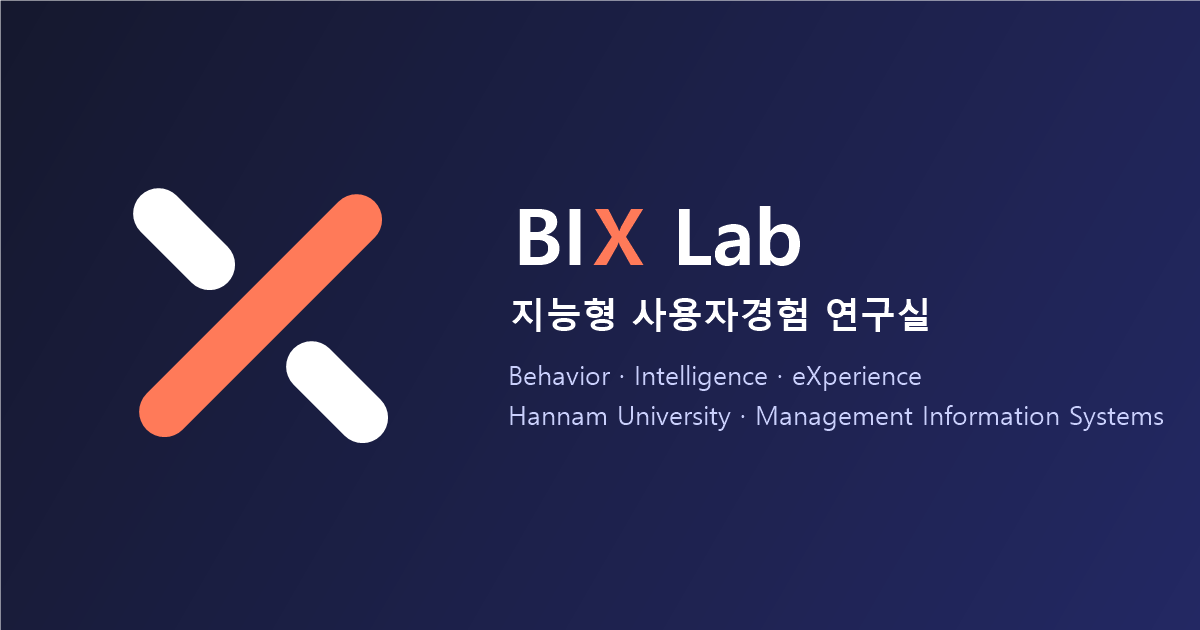
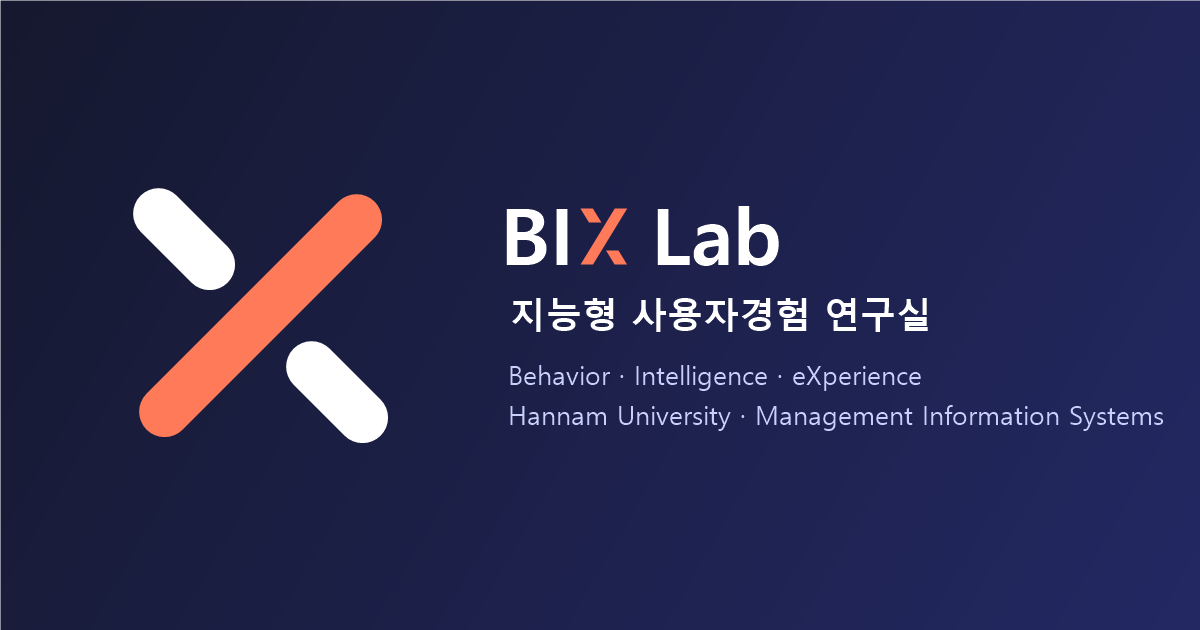
워드마크 X 디테일 적용

Changed region(s): [[0.4008, 0.3317, 0.6783, 0.4222]]

diff --git a/members.html b/members.html
@@ -14,8 +14,8 @@
 <meta property="og:image:width" content="1200">
 <meta property="og:image:height" content="630">
 <meta name="twitter:card" content="summary_large_image">
-<link rel="icon" type="image/svg+xml" href="assets/logo.svg?v=20261120j">
-<link rel="stylesheet" href="assets/style.css?v=20261120j">
+<link rel="icon" type="image/svg+xml" href="assets/logo.svg?v=20261123">
+<link rel="stylesheet" href="assets/style.css?v=20261123">
 </head>
 <body>
 <header id="site-header"></header>
@@ -34,7 +34,7 @@
       <div class="section-head"><div class="eyebrow">Principal Investigator</div></div>
       <div class="profile">
         <!-- 사진: assets/professor.jpg 파일이 있으면 사진이, 없으면 이니셜(BGS)이 보입니다 -->
-        <div class="avatar"><img src="assets/professor.jpg?v=20261120j" alt="Prof. Bong-Goon Seo" onerror="this.parentNode.textContent='BGS'"></div>
+        <div class="avatar"><img src="assets/professor.jpg?v=20261123" alt="Prof. Bong-Goon Seo" onerror="this.parentNode.textContent='BGS'"></div>
         <div>
           <h2>Bong-Goon Seo <span style="font-weight:500;color:var(--muted);font-size:22px">서봉군</span></h2>
           <p class="role">Assistant Professor, Department of Management Information Systems, Hannam University<br>
@@ -117,6 +117,6 @@
 </main>
 
 <footer id="site-footer"></footer>
-<script src="assets/site.js?v=20261120j"></script>
+<script src="assets/site.js?v=20261123"></script>
 </body>
 </html>

diff --git a/index.html b/index.html
@@ -15,8 +15,8 @@
 <meta property="og:image:height" content="630">
 <meta name="twitter:card" content="summary_large_image">
 <meta name="description" content="BIX Lab (지능형 사용자경험 연구실), Department of Management Information Systems, Hannam University — Understanding Behavior. Applying Intelligence. Designing Experience.">
-<link rel="icon" type="image/svg+xml" href="assets/logo.svg?v=20261120j">
-<link rel="stylesheet" href="assets/style.css?v=20261120j">
+<link rel="icon" type="image/svg+xml" href="assets/logo.svg?v=20261123">
+<link rel="stylesheet" href="assets/style.css?v=20261123">
 </head>
 <body>
 <header id="site-header"></header>
@@ -151,8 +151,8 @@
 </main>
 
 <footer id="site-footer"></footer>
-<script src="assets/data.js?v=20261120j"></script>
-<script src="assets/site.js?v=20261120j"></script>
+<script src="assets/data.js?v=20261123"></script>
+<script src="assets/site.js?v=20261123"></script>
 <script>
   renderNews("news", 5);
   renderPubs("selected", PUBS_INTL.filter(p => p.sel));

diff --git a/publications.html b/publications.html
@@ -14,8 +14,8 @@
 <meta property="og:image:width" content="1200">
 <meta property="og:image:height" content="630">
 <meta name="twitter:card" content="summary_large_image">
-<link rel="icon" type="image/svg+xml" href="assets/logo.svg?v=20261120j">
-<link rel="stylesheet" href="assets/style.css?v=20261120j">
+<link rel="icon" type="image/svg+xml" href="assets/logo.svg?v=20261123">
+<link rel="stylesheet" href="assets/style.css?v=20261123">
 </head>
 <body>
 <header id="site-header"></header>
@@ -64,8 +64,8 @@
 </main>
 
 <footer id="site-footer"></footer>
-<script src="assets/data.js?v=20261120j"></script>
-<script src="assets/site.js?v=20261120j"></script>
+<script src="assets/data.js?v=20261123"></script>
+<script src="assets/site.js?v=20261123"></script>
 <script>
   // 학술지 번호는 국내 [1]부터 시작해 국제 논문까지 이어서 매김
   renderPubs("list-intl", PUBS_INTL, PUBS_KR.length);

diff --git a/daily.html b/daily.html
@@ -16,8 +16,8 @@
 <meta name="twitter:card" content="summary_large_image">
 <!-- 잠시 닫아 둠: 이 주소로 들어오면 홈으로 이동. 다시 열려면 아래 한 줄을 지우면 됨 -->
 <meta http-equiv="refresh" content="0; url=index.html">
-<link rel="icon" type="image/svg+xml" href="assets/logo.svg?v=20261120j">
-<link rel="stylesheet" href="assets/style.css?v=20261120j">
+<link rel="icon" type="image/svg+xml" href="assets/logo.svg?v=20261123">
+<link rel="stylesheet" href="assets/style.css?v=20261123">
 </head>
 <body>
 <header id="site-header"></header>
@@ -53,7 +53,7 @@
 </main>
 
 <footer id="site-footer"></footer>
-<script src="assets/site.js?v=20261120j"></script>
-<script src="assets/daily.js?v=20261120j"></script>
+<script src="assets/site.js?v=20261123"></script>
+<script src="assets/daily.js?v=20261123"></script>
 </body>
 </html>

diff --git a/assets/site.js b/assets/site.js
@@ -16,7 +16,13 @@
     '<svg class="logo" viewBox="0 0 100 100" aria-hidden="true"><g stroke-linecap="round" stroke-width="17" fill="none">' +
     '<path d="M16 16 L33 33 M67 67 L84 84" stroke="currentColor"/>' +
     '<path d="M18 82 L82 18" stroke="#ff7a59"/></g></svg>';
-  const WORD = 'BI<span class="x">X</span> Lab';
+  // 글자 X도 로고처럼 엮인 모양: "/" 획은 이어지고 "\" 획은 교차점에서 끊김
+  const XGLYPH =
+    '<svg class="xg" viewBox="0 0 60 72" aria-hidden="true">' +
+    '<polygon points="0,72 16,72 60,0 44,0"/>' +
+    '<polygon points="0,0 16,0 27,18 11,18"/>' +
+    '<polygon points="33,54 49,54 60,72 44,72"/></svg>';
+  const WORD = 'BI<span class="x" role="img" aria-label="X">' + XGLYPH + '</span> Lab';
 
   const header = document.getElementById("site-header");
   if (header) {

diff --git a/news.html b/news.html
@@ -14,8 +14,8 @@
 <meta property="og:image:width" content="1200">
 <meta property="og:image:height" content="630">
 <meta name="twitter:card" content="summary_large_image">
-<link rel="icon" type="image/svg+xml" href="assets/logo.svg?v=20261120j">
-<link rel="stylesheet" href="assets/style.css?v=20261120j">
+<link rel="icon" type="image/svg+xml" href="assets/logo.svg?v=20261123">
+<link rel="stylesheet" href="assets/style.css?v=20261123">
 </head>
 <body>
 <header id="site-header"></header>
@@ -37,8 +37,8 @@
 </main>
 
 <footer id="site-footer"></footer>
-<script src="assets/data.js?v=20261120j"></script>
-<script src="assets/site.js?v=20261120j"></script>
+<script src="assets/data.js?v=20261123"></script>
+<script src="assets/site.js?v=20261123"></script>
 <script>renderNews("news");</script>
 </body>
 </html>

diff --git a/research.html b/research.html
@@ -14,8 +14,8 @@
 <meta property="og:image:width" content="1200">
 <meta property="og:image:height" content="630">
 <meta name="twitter:card" content="summary_large_image">
-<link rel="icon" type="image/svg+xml" href="assets/logo.svg?v=20261120j">
-<link rel="stylesheet" href="assets/style.css?v=20261120j">
+<link rel="icon" type="image/svg+xml" href="assets/logo.svg?v=20261123">
+<link rel="stylesheet" href="assets/style.css?v=20261123">
 </head>
 <body>
 <header id="site-header"></header>
@@ -217,6 +217,6 @@
 </main>
 
 <footer id="site-footer"></footer>
-<script src="assets/site.js?v=20261120j"></script>
+<script src="assets/site.js?v=20261123"></script>
 </body>
 </html>

diff --git a/contact.html b/contact.html
@@ -14,8 +14,8 @@
 <meta property="og:image:width" content="1200">
 <meta property="og:image:height" content="630">
 <meta name="twitter:card" content="summary_large_image">
-<link rel="icon" type="image/svg+xml" href="assets/logo.svg?v=20261120j">
-<link rel="stylesheet" href="assets/style.css?v=20261120j">
+<link rel="icon" type="image/svg+xml" href="assets/logo.svg?v=20261123">
+<link rel="stylesheet" href="assets/style.css?v=20261123">
 </head>
 <body>
 <header id="site-header"></header>
@@ -66,6 +66,6 @@
 </main>
 
 <footer id="site-footer"></footer>
-<script src="assets/site.js?v=20261120j"></script>
+<script src="assets/site.js?v=20261123"></script>
 </body>
 </html>

diff --git a/assets/style.css b/assets/style.css
@@ -377,3 +377,6 @@ tr:last-child td { border-bottom: 0; }
   .logo-hot { animation: none; opacity: 1; }
   .logo-hot::after { animation: none; }
 }
+
+/* 워드마크의 X (엮인 모양) */
+.xg { display: inline-block; height: 0.72em; width: auto; vertical-align: baseline; margin: 0 0.03em 0 0.02em; fill: var(--accent); }
